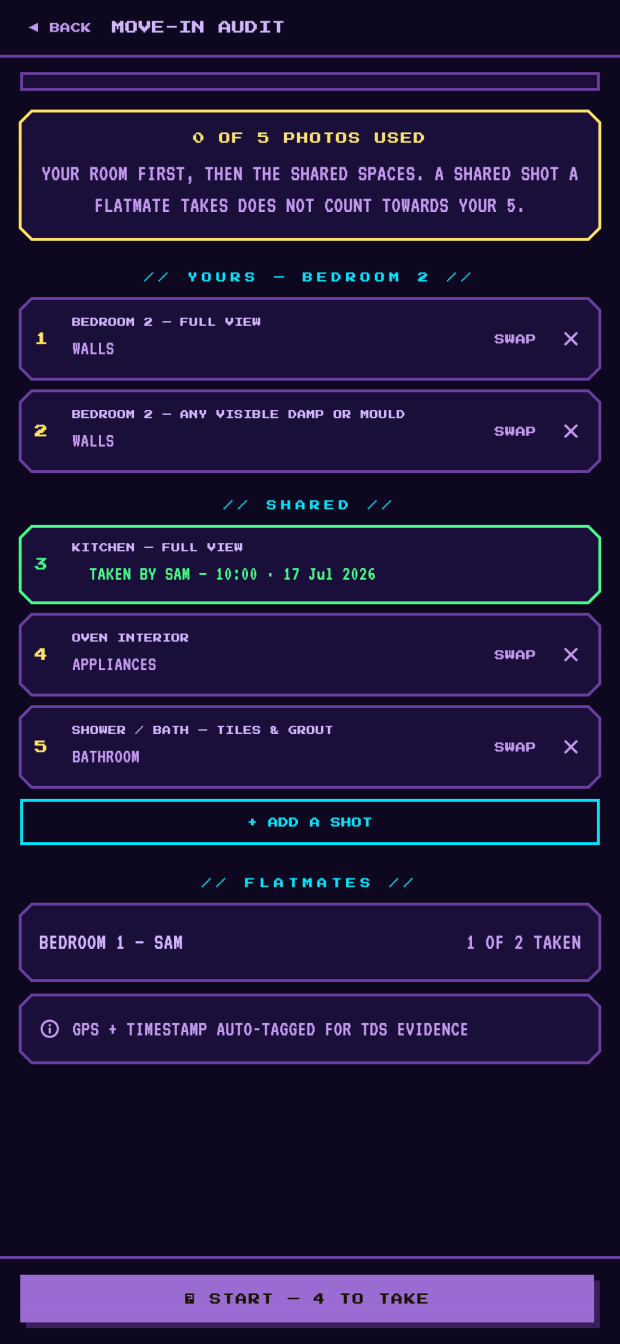
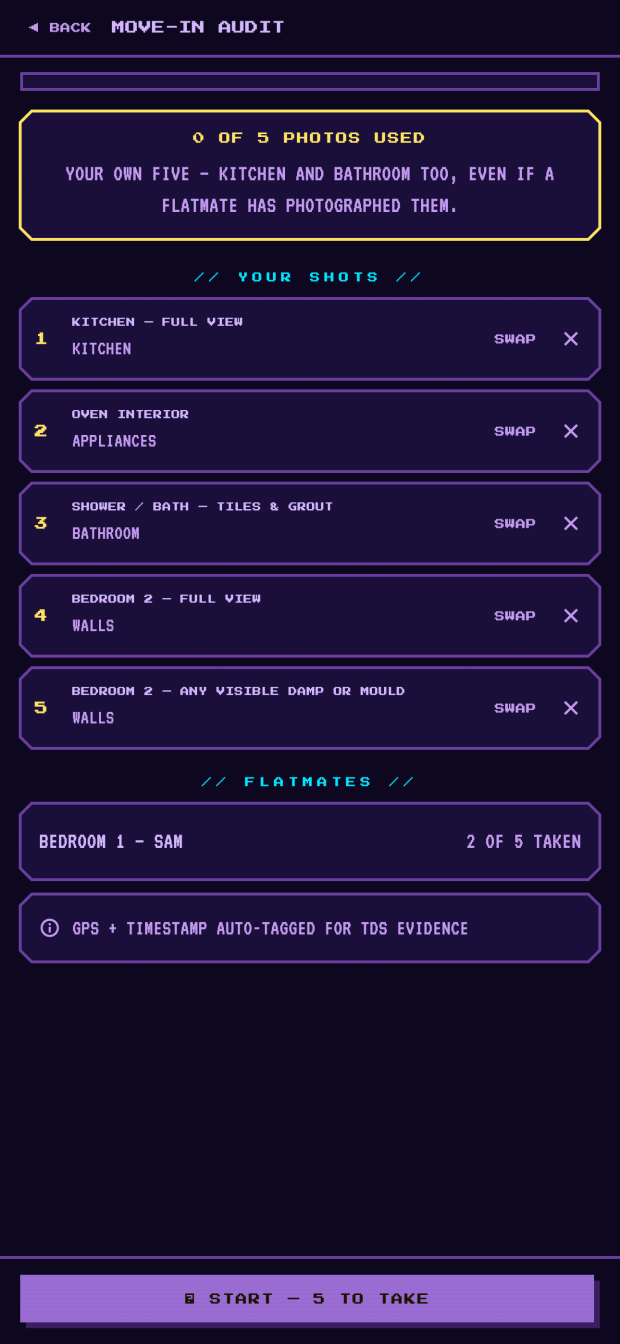
copy: everyone keeps their own record, and shares it if they choose
The app now gives each flatmate their own five photos and their own
seal, with a sharing switch that starts off. The site still described
one shared vault, the kitchen shot once and every flatmate agreeing
before a seal.

- Home page: descriptions, hero, household section, flatmates panel
  and the four bonds rewritten; "Credited, not named" becomes "Coded,
  and named only if they share".
- Guide: Part 03 gains Step 06, "Choose whether to share" (steps now
  01-13); the shot list, seal and move-out steps and Part 06 match the
  app. Seven screenshots reshot and a new 14f-sharing.webp, lossless
  like the rest.

No pricing. Publish with the next beta that carries stages 1-4, not
before.

diff --git a/how-to/index.html b/how-to/index.html
@@ -251,7 +251,7 @@
               <span class="gstep-n">Step 01</span>
               <h3>You need an active property first</h3>
               <p>The audit hangs off a tenancy, so home has to show one: either <span class="ui">SET UP YOUR TENANCY</span> straight from home, or <span class="ui">MOVE IN</span> from a saved viewing.</p>
-              <p>Living with other people? Set the flat up once and hand out a <b>join code</b> from the <span class="ui">HOUSEHOLD</span> screen. Everyone who redeems it shares the same vault, every photo is credited to whoever took it, and the audit only seals when you all agree it is done. <a href="../#household">More on households</a>.</p>
+              <p>Living with other people? Set the flat up once and hand out a <b>join code</b> from the <span class="ui">HOUSEHOLD</span> screen. Everyone who redeems it joins the flat, takes their own five and seals their own record. Nobody sees anyone else&rsquo;s photos unless they switch sharing on (Step 06). <a href="../#household">More on households</a>.</p>
             </div>
             <figure class="shot">
               <img src="../assets/img/guide/13-home-active.webp" width="620" height="1344" loading="lazy" decoding="async" alt="Home with an active property card showing the address, move-in date, tenant, landlord, deposit and photo and event counts.">
@@ -301,20 +301,33 @@
           <li class="gstep">
             <div class="gstep-body">
               <span class="gstep-n">Step 05</span>
-              <h3>Shared spaces are photographed once</h3>
-              <p>Your list splits in two. <span class="ui">YOURS</span> comes first &mdash; your room, and your en-suite if you have one &mdash; because nobody else can take those. <span class="ui">SHARED</span> is the kitchen, the oven and a shared bathroom: one photo each for the whole household, taken by whoever gets there first.</p>
-              <p>A shared photo a flatmate took shows their name and <b>does not count towards your five</b>. Further down, <span class="ui">FLATMATES</span> shows how far everyone else has got with their own rooms.</p>
-              <p><b>Joined after the others?</b> A shared photo taken more than 14 days before you joined the household no longer shows the flat as you found it. Your list gets your own retake of it, and that retake is one of your five.</p>
+              <h3>Your five include the shared rooms</h3>
+              <p>Your list is <span class="ui">YOUR SHOTS</span>: your room, and the kitchen, the oven and the bathroom too. A flatmate photographing the kitchen does not take it off your list &mdash; everyone documents the whole flat for themselves, so <b>your record has no gaps that depend on someone else</b>.</p>
+              <p>Further down, <span class="ui">FLATMATES</span> shows how far everyone else has got with their own five. Their photos stay theirs unless they share them, which is the next step.</p>
             </div>
             <figure class="shot">
-              <img src="../assets/img/guide/14d-audit-shared.webp" width="620" height="1344" loading="lazy" decoding="async" alt="A shared flat's list: zero of five photos used, two shots under yours for bedroom 2, three under shared with the kitchen already taken by Sam, and a flatmates card showing Sam's progress.">
-              <figcaption>Yours and shared</figcaption>
+              <img src="../assets/img/guide/14d-audit-shared.webp" width="620" height="1344" loading="lazy" decoding="async" alt="A shared flat's list: zero of five photos used, a note that your own five include the kitchen and bathroom even if a flatmate has photographed them, five shots from kitchen full view to bedroom 2 damp or mould, and a flatmates card showing Sam has taken two of five.">
+              <figcaption>Your shots</figcaption>
             </figure>
           </li>
 
           <li class="gstep">
             <div class="gstep-body">
               <span class="gstep-n">Step 06</span>
+              <h3>Choose whether to share</h3>
+              <p>Your photos and diary entries are yours. On the <span class="ui">HOUSEHOLD</span> screen, <span class="ui">SHARING WITH FLATMATES</span> starts <b>OFF</b>: only you see them.</p>
+              <p>Switch it <span class="ui">ON</span> and your flatmates see them in their vault and their diary, and their evidence pack includes them <b>under your name</b>. A flatmate who shares with you says so on their row. Switch it off again and they stop seeing yours from then on, though a pack already made keeps what it had.</p>
+              <p>The same switch sits at the top of the <span class="ui">EVIDENCE VAULT</span>, so it still works after you have archived the flat. If you leave the household, it stays as you left it.</p>
+            </div>
+            <figure class="shot">
+              <img src="../assets/img/guide/14f-sharing.webp" width="620" height="1344" loading="lazy" decoding="async" alt="The household screen: two people in this household, a your photos and diary card with sharing with flatmates switched on, and Sam's row reading shares their photos and diary with you.">
+              <figcaption>Sharing on</figcaption>
+            </figure>
+          </li>
+
+          <li class="gstep">
+            <div class="gstep-body">
+              <span class="gstep-n">Step 07</span>
               <h3>Start the walkthrough</h3>
               <p><span class="ui">START</span> walks you through whatever is left on your list, one shot at a time. Each screen names the shot and tags it with a category.</p>
               <p><span class="ui">SKIP</span> leaves one for later; <span class="ui">BACK</span> returns to the list, where you can still swap it. Leave halfway through and the list remembers what you have taken.</p>
@@ -327,7 +340,7 @@
 
           <li class="gstep wide">
             <div class="gstep-body">
-              <span class="gstep-n">Step 07</span>
+              <span class="gstep-n">Step 08</span>
               <h3>Take the shot</h3>
               <p><span class="ui">CAPTURE PHOTO</span> opens the camera &mdash; and only the camera. There is no &ldquo;choose from gallery&rdquo; here on purpose: a photo that could have come from anywhere proves nothing about this flat on this day.</p>
               <p>The moment the shutter closes, your phone records the time and asks for a GPS fix, and you get a preview to check before it goes anywhere:</p>
@@ -342,7 +355,7 @@
 
           <li class="gstep wide">
             <div class="gstep-body">
-              <span class="gstep-n">Step 08</span>
+              <span class="gstep-n">Step 09</span>
               <h3>Save it and move on</h3>
               <p><span class="ui">NEXT &mdash; SAVE &amp; CONTINUE</span> uploads the photo and moves you to the next shot on your list. That upload is where the record is actually made: our server recomputes the photo&rsquo;s fingerprint from the file it received and refuses the whole thing if it disagrees with what your phone sent.</p>
               <p>Once a shot holds a photo, <b>that slot is closed</b>. You cannot swap it for a nicer one an hour later, and neither can anyone else &mdash; which is exactly why a deposit scheme will take it seriously. If a flatmate photographed the same shared shot a moment before you did, theirs stands and the app moves you on.</p>
@@ -351,7 +364,7 @@
 
           <li class="gstep">
             <div class="gstep-body">
-              <span class="gstep-n">Step 09</span>
+              <span class="gstep-n">Step 10</span>
               <h3>Finish the round</h3>
               <p>Once your five are taken the counter reads <span class="ui">5 OF 5 PHOTOS USED</span>, and <span class="ui">GO TO CHECKLIST</span> takes you on. Want to stop with photos to spare? <span class="ui">DONE FOR NOW &mdash; CHECKLIST</span> on the list does the same.</p>
             </div>
@@ -363,7 +376,7 @@
 
           <li class="gstep">
             <div class="gstep-body">
-              <span class="gstep-n">Step 10</span>
+              <span class="gstep-n">Step 11</span>
               <h3>Write down the damage you inherited</h3>
               <p>Twenty-four rows across six categories &mdash; walls, carpet, furniture, appliances, bathroom, kitchen. Tick anything that is already wrong and grade it <span class="ui">MINOR</span>, <span class="ui">MODERATE</span> or <span class="ui">SEVERE</span>. The pills along the top filter by room.</p>
               <p>This is the list a landlord will quietly turn into deductions if you never made it. A scuff you photographed and graded on day one is not damage you caused.</p>
@@ -376,10 +389,10 @@
 
           <li class="gstep">
             <div class="gstep-body">
-              <span class="gstep-n">Step 11</span>
+              <span class="gstep-n">Step 12</span>
               <h3>Seal it</h3>
               <p><span class="ui">COMPLETE CHECK-IN</span> asks first, because sealing is <b>one-way</b>: no more photos against this move-in, no more checklist edits, ever. That permanence is the point &mdash; it is what stops &ldquo;move-in photos&rdquo; from appearing months into a dispute.</p>
-              <p>In a shared flat, <b>every other flatmate has to agree it is complete before it will seal</b>. If someone has gone quiet, the household owner can seal anyway &mdash; and the evidence pack records in writing that they did.</p>
+              <p>In a shared flat, <b>you seal your own five and your own checklist</b>; each flatmate seals theirs. Nobody waits on anyone, and nobody can seal yours for you.</p>
             </div>
             <figure class="shot">
               <img src="../assets/img/guide/18-seal.webp" width="620" height="1344" loading="lazy" decoding="async" alt="The seal move-in record dialog warning that it locks the photos and checklist for good, with not yet and seal it buttons.">
@@ -389,7 +402,7 @@
 
           <li class="gstep">
             <div class="gstep-body">
-              <span class="gstep-n">Step 12</span>
+              <span class="gstep-n">Step 13</span>
               <h3>What you are left holding</h3>
               <p>The audit becomes a closed record: how many photos it holds, when it was sealed, and no camera anywhere on the screen.</p>
               <p>From here the flat looks after itself. Log repairs and replacements in the <span class="ui">LIVING DIARY</span> as they happen, and when you leave, <span class="ui">MOVE-OUT AUDIT</span> replays the move-in shots one at a time so you can mirror them &mdash; then packs the lot into a PDF you can hand to a deposit scheme.</p>
@@ -420,7 +433,7 @@
               <h3>Two ways in</h3>
               <p>From home, <span class="ui">MOVE-OUT AUDIT</span> runs on whatever flat is currently active. Already archived the flat (<a href="#deposit-outcome">Part 05</a>)? Tap its card instead and choose <span class="ui">MOVE-OUT AUDIT & PACK</span> &mdash; the same screen, aimed at that one flat by name.</p>
               <p>The intro screen counts your move-in photos and lays out the four steps: pull them up, retake each one from the same angle, pair them up, build the PDF. With nothing to mirror, <span class="ui">BEGIN MIRROR FLOW</span> stays dead until a move-in audit exists.</p>
-              <p>Sharing the flat? You mirror the <b>shared shots and your own</b>. A flatmate&rsquo;s own shots wait for them &mdash; the intro says so, as in <span class="ui">WAITING ON BEDROOM 1: 2 SHOTS</span> &mdash; unless they have already left the household, in which case they are yours to mirror.</p>
+              <p>Sharing the flat? You mirror <b>your own</b> move-in photos, the kitchen and bathroom included. Your flatmates mirror theirs.</p>
             </div>
             <figure class="shot">
               <img src="../assets/img/guide/20-checkout-intro.webp" width="620" height="1344" loading="lazy" decoding="async" alt="The move-out audit intro screen: a how it works card listing the four mirror steps, a count of move-in photos loaded, and a begin mirror flow button.">
@@ -446,7 +459,7 @@
               <span class="gstep-n">Step 03</span>
               <h3>Finish &amp; seal</h3>
               <p>Work through every shot and the footer becomes <span class="ui">FINISH & SEAL MOVE-OUT</span>. Sealing is one-way, same as move-in and for the same reason: a photo taken after everyone has left and the keys are back is not a photo anyone should trust the date of.</p>
-              <p>You need at least one mirror shot to seal &mdash; an empty move-out cannot be closed. Sharing the flat? The seal only fires once every flatmate has agreed the round is done; the household owner can push it through if someone has gone quiet, and the pack notes in writing that they did.</p>
+              <p>You need at least one mirror shot to seal &mdash; an empty move-out cannot be closed. In a shared flat you seal your own move-out, and each flatmate seals theirs.</p>
             </div>
             <figure class="shot">
               <img src="../assets/img/guide/22-mirror-done.webp" width="620" height="1344" loading="lazy" decoding="async" alt="The mirror done screen, counting two move-out photos captured, above a finish and seal move-out button.">
@@ -459,6 +472,7 @@
               <span class="gstep-n">Step 04</span>
               <h3>Your evidence pack</h3>
               <p><span class="ui">MOVE-OUT COMPLETE</span> totals up what you have got &mdash; move-in photos, move-out photos, diary events &mdash; and offers <span class="ui">GENERATE PDF</span>. That builds the deposit dispute evidence pack: your photo pairs, the damage checklist from move-in, your maintenance diary, and the proof (<a href="#evidence-pack">Part 06</a>) that none of it could have been quietly changed, by anyone, us included.</p>
+              <p>If a flatmate shares with you, their photos and diary entries go in too, each under their name, and the summary counts them as <span class="ui">SHARED BY FLATMATES</span>.</p>
               <p><span class="ui">SHARE PDF</span> hands it to whatever app you would use to email, save or print it. Added a diary entry or a deposit outcome since? <span class="ui">REGEN</span> rebuilds the pack to include it.</p>
             </div>
             <figure class="shot">
@@ -468,7 +482,7 @@
           </li>
         </ol>
 
-        <p class="warn"><b>Sealing a move-out cannot be undone</b>, same as move-in. If a flatmate has not agreed yet, it is worth waiting for them rather than reaching for the override just to move faster &mdash; it is exactly the kind of thing a dispute reads back later.</p>
+        <p class="warn"><b>Sealing a move-out cannot be undone</b>, same as move-in. Retake anything that is not close enough before you seal, not after.</p>
       </section>
 
       <!-- ============================================================
@@ -572,7 +586,7 @@
             <div class="gstep-body">
               <span class="gstep-n">Step 01</span>
               <h3>What&rsquo;s actually in the PDF</h3>
-              <p>Five parts, in order: your move-in and move-out photos side by side, the damage list you made on day one, your maintenance diary, and then two sections that do the trust-building &mdash; one saying &ldquo;here is proof we did not touch your photos,&rdquo; the other saying &ldquo;and here is proof you do not even have to take our word for that.&rdquo; Those last two are what the rest of this page explains.</p>
+              <p>Five parts, in order: your move-in and move-out photos side by side (and any a flatmate shares with you, under their name), the damage list you made on day one, your maintenance diary, and then two sections that do the trust-building &mdash; one saying &ldquo;here is proof we did not touch your photos,&rdquo; the other saying &ldquo;and here is proof you do not even have to take our word for that.&rdquo; Those last two are what the rest of this page explains.</p>
             </div>
           </li>
 

diff --git a/index.html b/index.html
@@ -4,7 +4,7 @@
 <meta charset="utf-8">
 <meta name="viewport" content="width=device-width, initial-scale=1">
 <title>rm8tes — shared deposit evidence for UK flatshares</title>
-<meta name="description" content="A shared vault for UK flatshares: every flatmate's GPS-tagged, timestamped photos in one case file at move-in and move-out, sealed when everyone agrees.">
+<meta name="description" content="Deposit evidence for UK flatshares: everyone's own GPS-tagged, timestamped photos at move-in and move-out, sealed by each of you, and shared with your flatmates if you choose.">
 <link rel="canonical" href="https://rm8tes.com/">
 <!-- GitHub Pages cannot set response headers on a custom domain, so the policy
      is declared here instead. A <meta> CSP is enforced by the browser exactly
@@ -25,7 +25,7 @@
 <!-- Social preview -->
 <meta property="og:type" content="website">
 <meta property="og:title" content="rm8tes — shared deposit evidence for UK flatshares">
-<meta property="og:description" content="One flat, one shared vault. Every flatmate's photos in one case file — sealed only when everybody agrees.">
+<meta property="og:description" content="Your own sealed record of the flat, move-in to move-out, shared with your flatmates if you choose.">
 <meta property="og:image" content="https://rm8tes.com/assets/img/og-cover.jpg">
 <meta name="twitter:card" content="summary_large_image">
 <meta name="twitter:image" content="https://rm8tes.com/assets/img/og-cover.jpg">
@@ -49,7 +49,7 @@
       "alternateName": ["rm8tes app", "Roomates Ltd"],
       "url": "https://rm8tes.com/",
       "logo": "https://rm8tes.com/assets/img/icon.jpg",
-      "description": "rm8tes gives a UK rented household one shared, tamper-evident record of the condition of their flat, photographed by every flatmate and sealed by the household together.",
+      "description": "rm8tes gives everyone in a UK rented household their own tamper-evident record of the condition of their flat, which each flatmate seals for themselves and can share with the others.",
       "foundingDate": "2025-11-03",
       "identifier": {
         "@type": "PropertyValue",
@@ -77,7 +77,7 @@
       "operatingSystem": "Android",
       "url": "https://rm8tes.com/",
       "publisher": { "@id": "https://rm8tes.com/#organization" },
-      "description": "Shared move-in and move-out evidence for UK flatshares. Every flatmate photographs the flat; photos are GPS-tagged, timestamped, SHA-256 fingerprinted and anchored to the Bitcoin blockchain; the household seals the record together. Private beta."
+      "description": "Move-in and move-out evidence for UK flatshares. Every flatmate photographs the flat for themselves; photos are GPS-tagged, timestamped, SHA-256 fingerprinted and anchored to the Bitcoin blockchain; each flatmate seals their own record and can share it with the others. Private beta."
     },
     {
       "@type": "WebSite",
@@ -110,7 +110,7 @@
     <div class="pitch">
       <p class="eyebrow">Evidence Terminal &middot; <b>Private Beta</b></p>
       <h1 class="hero">Get your deposit back&mdash;<span class="em">together.</span></h1>
-      <p class="sub">Your deposit was never yours alone. rm8tes gives your flat <b>one shared vault</b>: GPS-tagged, timestamped photos from everyone who lives there, mirrored move-in to move-out, sealed into a single evidence pack the whole household owns.</p>
+      <p class="sub">Your deposit was never yours alone. rm8tes gives everyone in your flat <b>their own sealed record</b>: GPS-tagged, timestamped photos, mirrored move-in to move-out. Share yours with the people you live with, and their evidence pack carries it too.</p>
       <div class="cta">
         <a class="btn primary" href="#join">&#9656; Join the beta</a>
         <a class="btn ghost" href="#household">Meet your household</a>
@@ -123,7 +123,7 @@
 
     <aside class="record" aria-label="Sample household evidence record">
       <div class="record-head"><span><b>Household</b> Vault</span><span>#0417</span></div>
-      <ul class="crew" aria-label="Flatmates sharing this vault">
+      <ul class="crew" aria-label="Flatmates in this household">
         <li class="mate"><span class="pip" aria-hidden="true">AJ</span>Alex</li>
         <li class="mate"><span class="pip" aria-hidden="true">SM</span>Sam</li>
         <li class="mate"><span class="pip" aria-hidden="true">YO</span>You</li>
@@ -143,7 +143,7 @@
         <div><dt>Time</dt><dd>2026-01-12&nbsp;&nbsp;14:32:07</dd></div>
         <div><dt>Hash</dt><dd>9f3a&thinsp;&middot;&thinsp;7b1e&thinsp;&middot;&thinsp;c1e0</dd></div>
       </dl>
-      <p class="signoff"><span class="ticks" aria-hidden="true">&#10003;&#10003;&#10003;</span> 3 of 3 flatmates agreed &middot; <b class="ok">Sealed</b></p>
+      <p class="signoff"><span class="ticks" aria-hidden="true">&#10003;</span> Shared by Sam &middot; <b class="ok">Sealed</b></p>
     </aside>
   </section>
 
@@ -152,28 +152,28 @@
       <div class="house-copy">
         <p class="eyebrow">Household &middot; <b>New</b></p>
         <h2>The people you live with are in this with you</h2>
-        <p class="how-lede">Four people sign one tenancy and then document it on four phones that never speak to each other&mdash;so at move-out there are four half-stories and one landlord picking between them. rm8tes now gives your tenancy a <b>household</b>: one vault, shared by everyone in the flat, that any of you can add to and none of you can close alone.</p>
-        <p class="how-lede">You hand out a join code. They type it in. From that second you are documenting the same flat, on the same record, in each other&rsquo;s company.</p>
+        <p class="how-lede">Four people sign one tenancy and then document it on four phones that never speak to each other&mdash;so at move-out there are four half-stories and one landlord picking between them. rm8tes now gives your tenancy a <b>household</b>: everyone keeps their own record of the flat, and anyone can share theirs with the rest.</p>
+        <p class="how-lede">You hand out a join code. They type it in. From that second you are documenting the same flat, side by side, and can share what you each find.</p>
       </div>
 
       <aside class="flatmates" aria-label="Example flatmates screen">
         <div class="record-head"><span><b>Flatmates</b></span><span>Flat 4B</span></div>
-        <p class="panel-note"><b>Move-out sign-off</b> &middot; 2 of 3 agreed</p>
+        <p class="panel-note"><b>Sharing</b> &middot; photos and diary</p>
         <ul class="roster">
           <li>
             <span class="pip" aria-hidden="true">AJ</span>
             <span class="who"><b>Alex</b><small>Owner &middot; joined 12 Jan</small></span>
-            <span class="state ok">&#10003; Agreed</span>
+            <span class="state ok">&#10003; Sharing</span>
           </li>
           <li>
             <span class="pip" aria-hidden="true">SM</span>
             <span class="who"><b>Sam</b><small>Joined 12 Jan</small></span>
-            <span class="state ok">&#10003; Agreed</span>
+            <span class="state ok">&#10003; Sharing</span>
           </li>
           <li>
             <span class="pip" aria-hidden="true">YO</span>
             <span class="who"><b>You</b><small>Joined 14 Jan</small></span>
-            <span class="state wait">&middot; Not yet</span>
+            <span class="state wait">&middot; Not sharing</span>
           </li>
         </ul>
         <div class="code">
@@ -188,28 +188,28 @@
       <li class="bond">
         <span class="bond-n">Invite</span>
         <h3>One code, and they&rsquo;re in</h3>
-        <p>Set up the flat and you get a short join code. Read it out over the kitchen table, text it, stick it on the fridge. Your flatmate types it in and lands in the same vault&mdash;<b>no accounts to link, no invite lost in an inbox</b>.</p>
+        <p>Set up the flat and you get a short join code. Read it out over the kitchen table, text it, stick it on the fridge. Your flatmate types it in and joins the same flat&mdash;<b>no accounts to link, no invite lost in an inbox</b>.</p>
       </li>
       <li class="bond">
         <span class="bond-n">Together</span>
-        <h3>Everyone shoots, everyone sees</h3>
-        <p>Photograph your own room&mdash;the kitchen only needs doing once, by whoever gets there first&mdash;and open the app to see theirs. Each photo is credited to the flatmate who took it, and the flat leaves with <b>one evidence pack covering all of it</b>&mdash;not four partial ones that contradict each other.</p>
+        <h3>Everyone shoots their own</h3>
+        <p>Five photos each: your room, and the kitchen and bathroom too, so <b>nobody&rsquo;s record has a gap where someone else&rsquo;s photo should be</b>. Each photo is credited to the flatmate who took it, and each of you seals your own when you are done&mdash;nobody waits on anyone, and nobody can close yours early.</p>
       </li>
       <li class="bond">
-        <span class="bond-n">Agree</span>
-        <h3>Nobody seals alone</h3>
-        <p>Sealing an audit is one-way, so in a shared flat <b>every other flatmate has to agree it is finished first</b>. No one can close move-out before you have photographed the damage in your room&mdash;and if the owner ever overrides that, the pack says so in writing.</p>
+        <span class="bond-n">Share</span>
+        <h3>Yours, unless you share it</h3>
+        <p>Your photos and diary are yours. Switch sharing on and your flatmates see them, and <b>their evidence pack carries them under your name</b>&mdash;four records that back each other up instead of contradicting each other. Switch it off and they stop seeing them; a pack already made keeps what it had.</p>
       </li>
       <li class="bond">
         <span class="bond-n">Live</span>
         <h3>It lands while you&rsquo;re looking</h3>
-        <p>A flatmate&rsquo;s photo, diary entry or sign-off appears on your phone as it happens. The boiler that broke in March is <b>one repair history the household keeps together</b>, written by whoever was home.</p>
+        <p>Once a flatmate shares, their photos and diary entries appear on your phone as they happen. The boiler that broke in March becomes <b>one repair history the household keeps together</b>, written by whoever was home.</p>
       </li>
     </ul>
 
-    <p class="credit"><b>Credited, not named.</b> Inside the evidence pack every photo carries a code for the flatmate who took it&mdash;so a landlord can see the same person shot the whole kitchen, without being handed a list of who lives where. The code is different in every property, and once someone deletes their account nobody can trace it back to them at all. <a href="privacy/#evidence-integrity">How that works</a> &middot; <a href="privacy/#households">what your flatmates can see</a>.</p>
+    <p class="credit"><b>Coded, and named only if they share.</b> Inside the evidence pack every photo carries a code for the flatmate who took it&mdash;so a landlord can see who shot what, without being handed a list of who lives where. The code is different in every property, and once someone deletes their account nobody can trace it back to them at all. A flatmate&rsquo;s photos appear under their name only because they switched sharing on. <a href="privacy/#evidence-integrity">How that works</a> &middot; <a href="privacy/#households">what your flatmates can see</a>.</p>
 
-    <p class="next"><b>And this is the first step, not the last.</b> Renting <em>with</em> people is the part of renting nobody has built for. We started with the deposit because that is the part that costs you money&mdash;but a shared vault is where rm8tes stops being an app for renting from someone and starts being an app for living with someone. More of that is coming.</p>
+    <p class="next"><b>And this is the first step, not the last.</b> Renting <em>with</em> people is the part of renting nobody has built for. We started with the deposit because that is the part that costs you money&mdash;but a household is where rm8tes stops being an app for renting from someone and starts being an app for living with someone. More of that is coming.</p>
   </section>
 
   <section class="join" id="join">
@@ -247,7 +247,7 @@
       <li class="step">
         <span class="step-n">03</span>
         <h3>Locked, then sealed</h3>
-        <p>Once stored, a photo cannot be edited, swapped or quietly retaken. Finish your move-in and that whole set seals shut; move-out seals the same way&mdash;and in a shared flat, only once <b>every other flatmate has agreed it is complete</b>. That is what stops &ldquo;move-in photos&rdquo; appearing months into a dispute&mdash;usually the first thing a landlord will suggest.</p>
+        <p>Once stored, a photo cannot be edited, swapped or quietly retaken. Finish your move-in and that whole set seals shut; move-out seals the same way, and in a shared flat <b>each flatmate seals their own</b>, so nobody can close yours early. That is what stops &ldquo;move-in photos&rdquo; appearing months into a dispute&mdash;usually the first thing a landlord will suggest.</p>
       </li>
       <li class="step">
         <span class="step-n">04</span>
